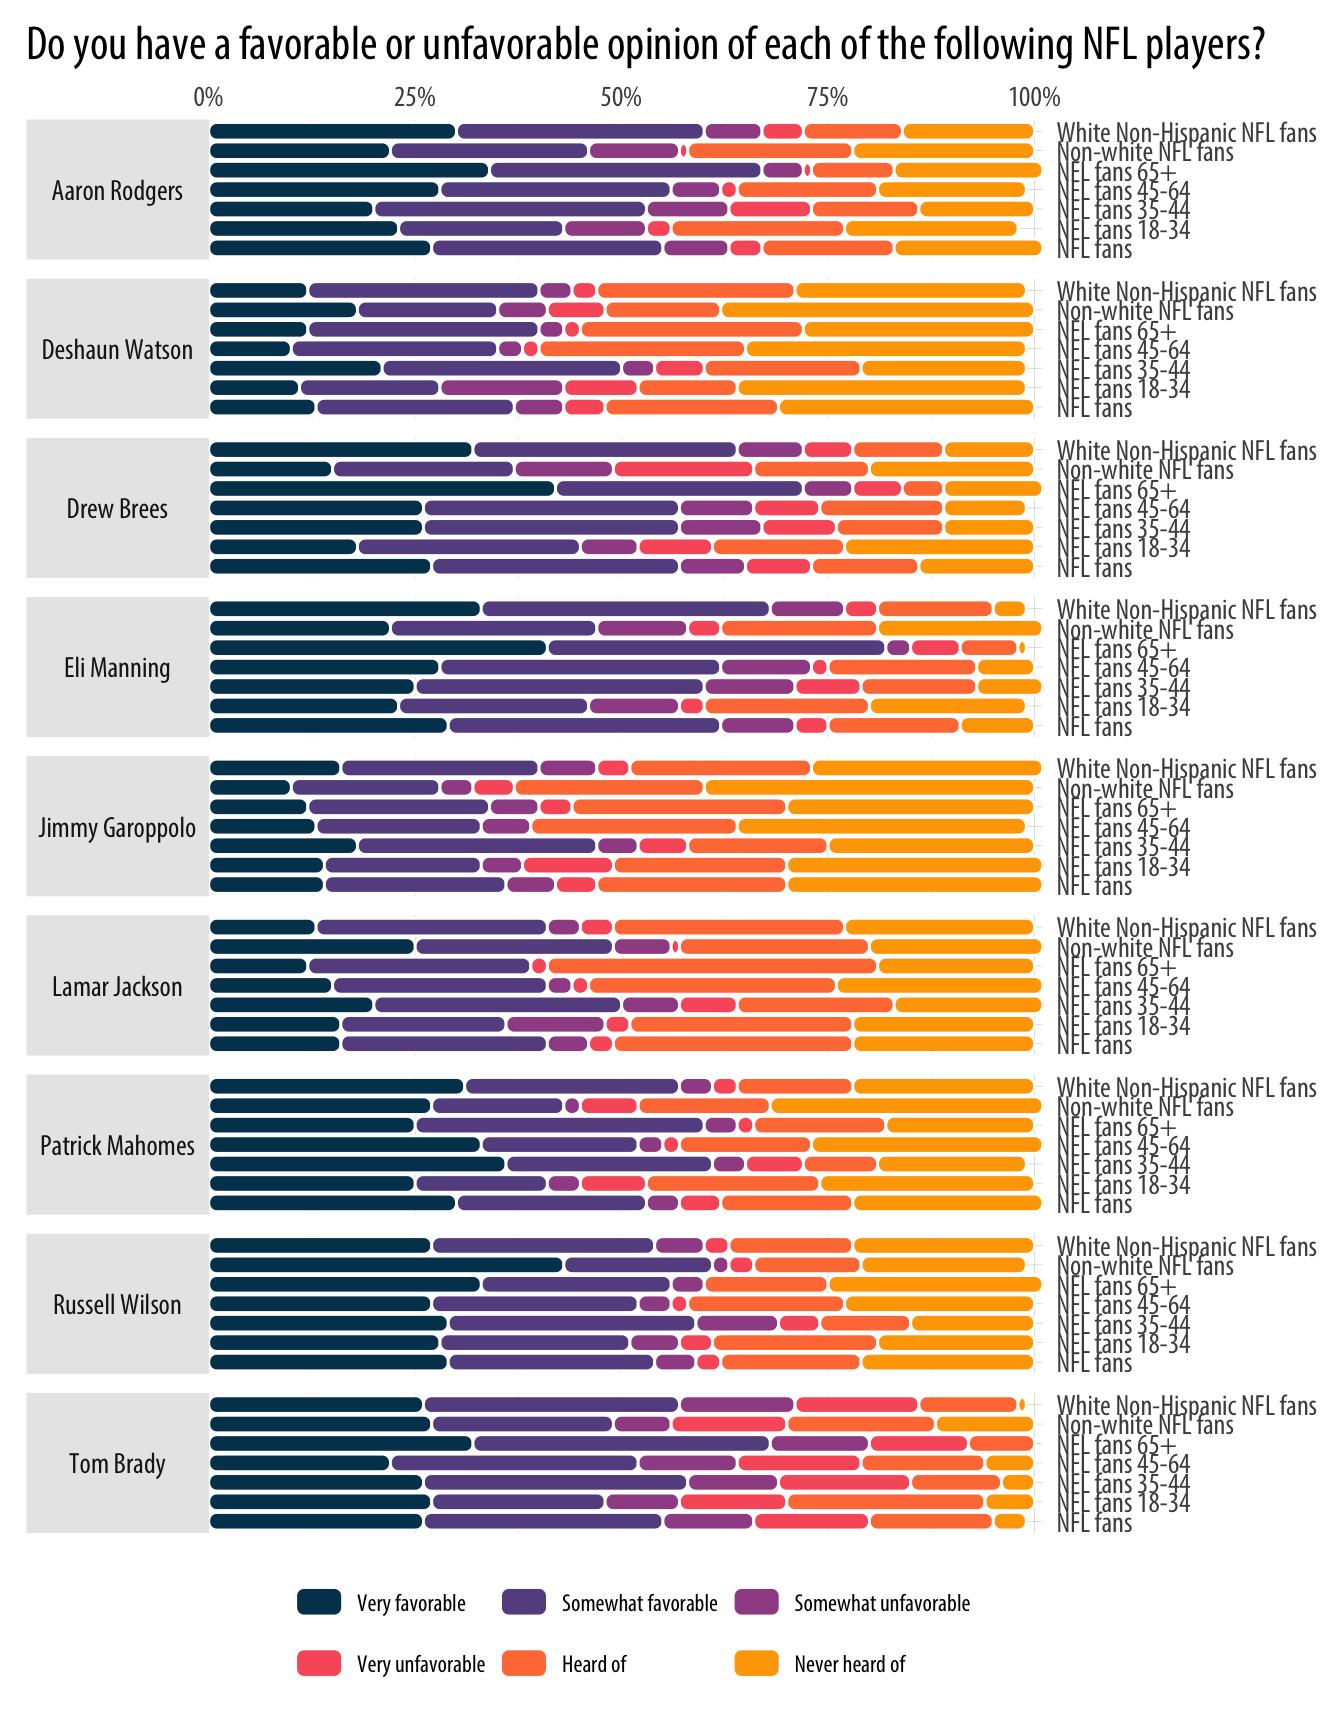
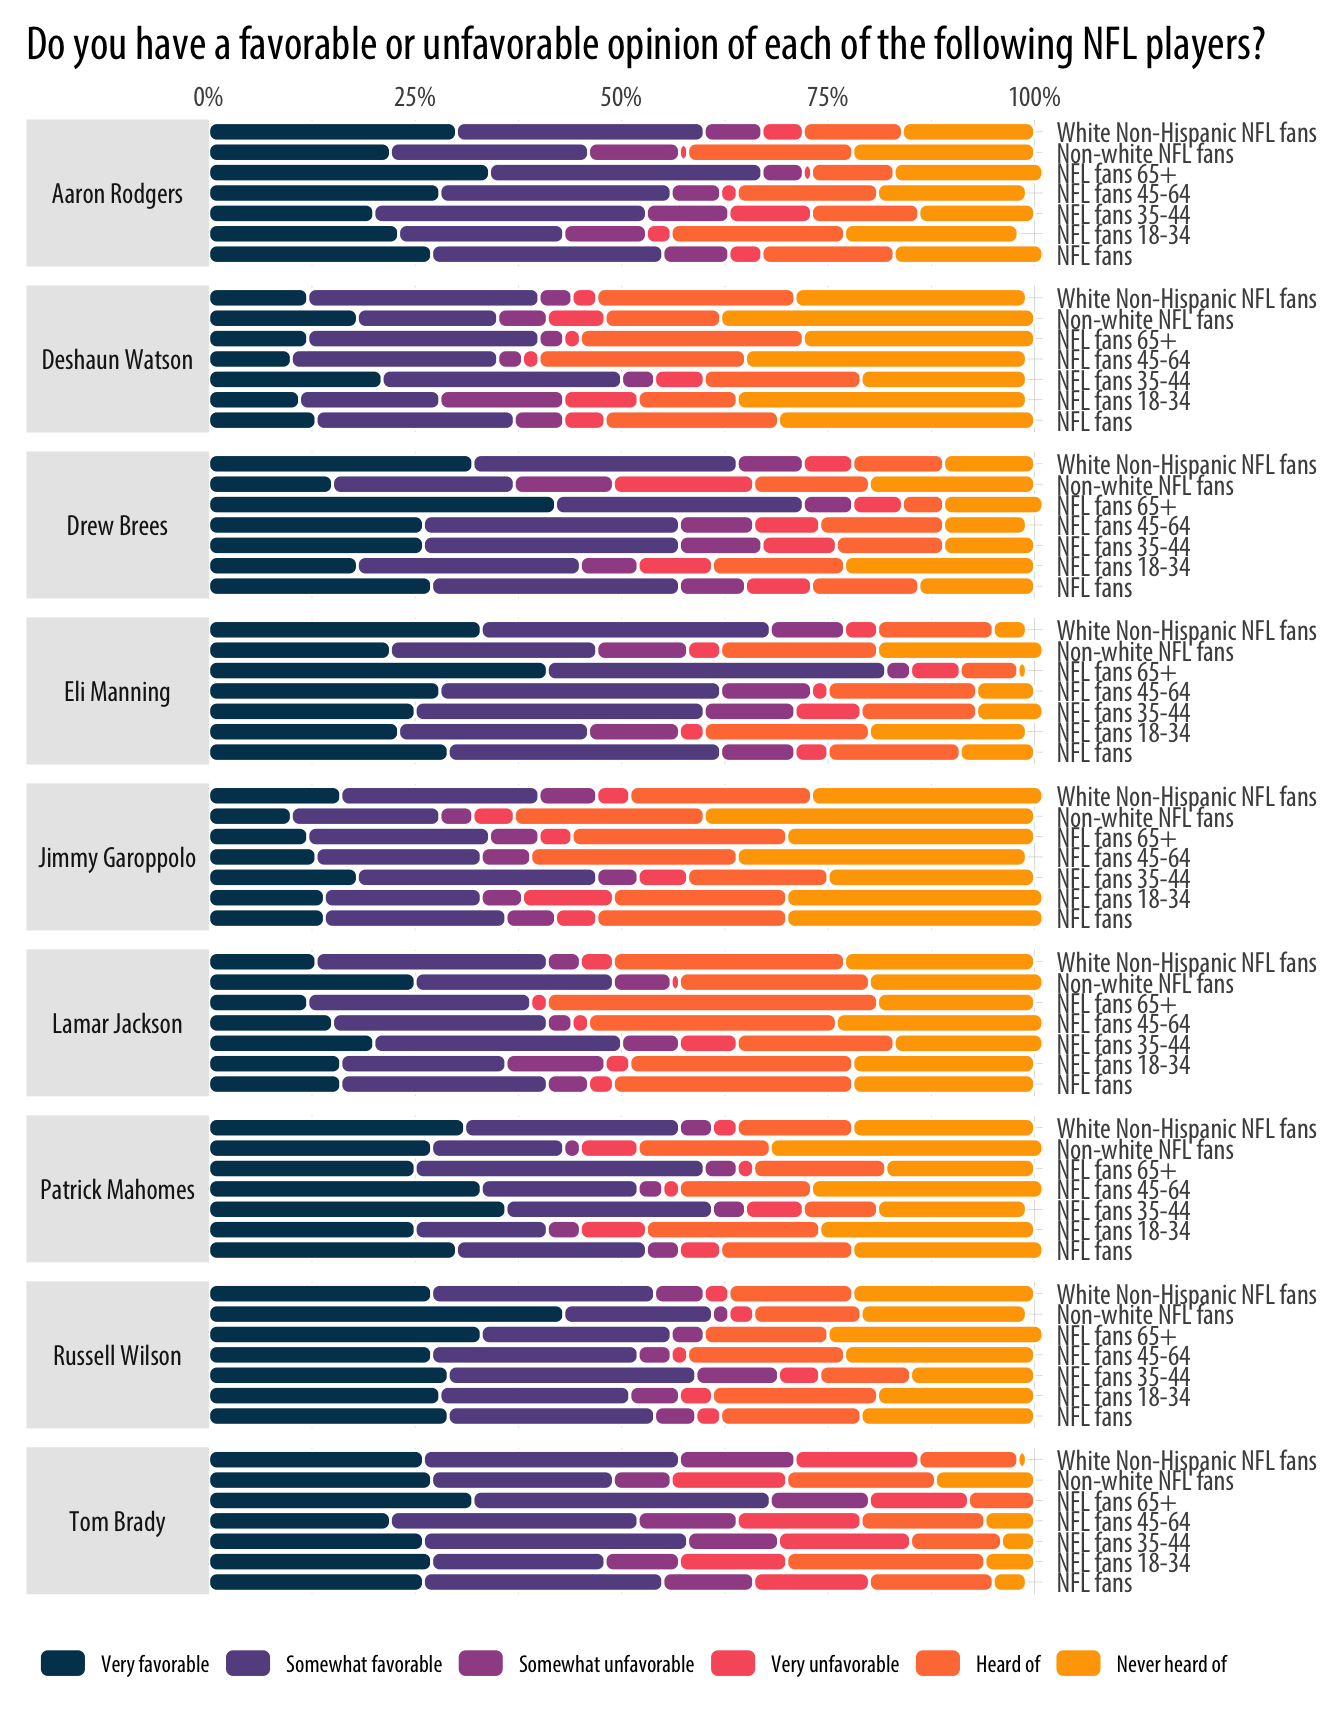
filtered the groupings

diff --git a/content/post/2019-03-28-snippets-ggplot.html b/content/post/2019-03-28-snippets-ggplot.html
@@ -236,11 +236,11 @@ p1 | p2</code></pre>
 ## get police officer salary data ## 
 GET(&quot;https://www.bls.gov/oes/special.requests/oes_research_2019_sec_99.xlsx&quot;, write_disk(path &lt;- tempfile(fileext = &quot;.xlsx&quot;)))</code></pre>
 <pre><code>## Response [https://www.bls.gov/oes/special.requests/oes_research_2019_sec_99.xlsx]
-##   Date: 2020-06-20 22:07
+##   Date: 2020-06-20 22:12
 ##   Status: 200
 ##   Content-Type: application/vnd.openxmlformats-officedocument.spreadsheetml.sheet
 ##   Size: 8.44 MB
-## &lt;ON DISK&gt;  /var/folders/94/ccg99vlx5hn4rhfw5qgqfbvs4jjjx5/T//RtmpXq5ONc/file773356fd2e4c.xlsx</code></pre>
+## &lt;ON DISK&gt;  /var/folders/94/ccg99vlx5hn4rhfw5qgqfbvs4jjjx5/T//RtmpjWyc2g/file79a31e4d1110.xlsx</code></pre>
 <pre class="r"><code>tmp &lt;-
   read_excel(path) %&gt;% 
   clean_names()
@@ -350,7 +350,8 @@ df &lt;- df %&gt;%
                               Question == &quot;Table CMS6_7&quot; ~ &quot;Jimmy Garoppolo&quot;,
                               Question == &quot;Table CMS6_8&quot; ~ &quot;Deshaun Watson&quot;,
                               Question == &quot;Table CMS6_9&quot; ~ &quot;Lamar Jackson&quot;))</code></pre>
-<p>We’ll now take the popularity of 9 different quarterbacks and will facet by the player, and group responses by respondent gender. We’re going to use <code>coord_flip</code> to so that the chicklet plot is horizontal and we’re going to move the facet to the left, and the axis text of gender to the right. We’ll also change the facet text so that it’s horizontal as opposed to the standard vertical orientation.</p>
+<p>We’ll now take the popularity of 9 different quarterbacks and will facet by the player, and group the responses of NFL fans by their age and ethnicity. We’ll also inlcude the overall opinion of all NFL fans for each quarterback.</p>
+<p>To make the plot, we’ll use <code>coord_flip</code> to so that the chicklet plot is horizontal and we’re going to reverse the positions of the facet and the axis text. We’ll also rotate the orientation of the facet text from vertical to horizontal for easier reading.</p>
 <pre class="r"><code>library(ggchicklet)
 df %&gt;% filter(str_detect(Demographics, fixed(&quot;NFL Fans&quot;, ignore_case = TRUE))) %&gt;% 
   group_by(Question) %&gt;% 
@@ -370,7 +371,7 @@ df %&gt;% filter(str_detect(Demographics, fixed(&quot;NFL Fans&quot;, ignore_cas
   coord_flip() + 
   theme_twg() + 
   hrbrthemes::scale_y_percent(expand = c(0,0), position = &quot;right&quot;) +
-  guides(fill=guide_legend(nrow=2, byrow = TRUE)) +
+  guides(fill=guide_legend(nrow=1, byrow = TRUE)) +
   theme(legend.position=&quot;bottom&quot;,
         axis.text = element_text(size = 11),
         plot.title.position = &quot;plot&quot;,
